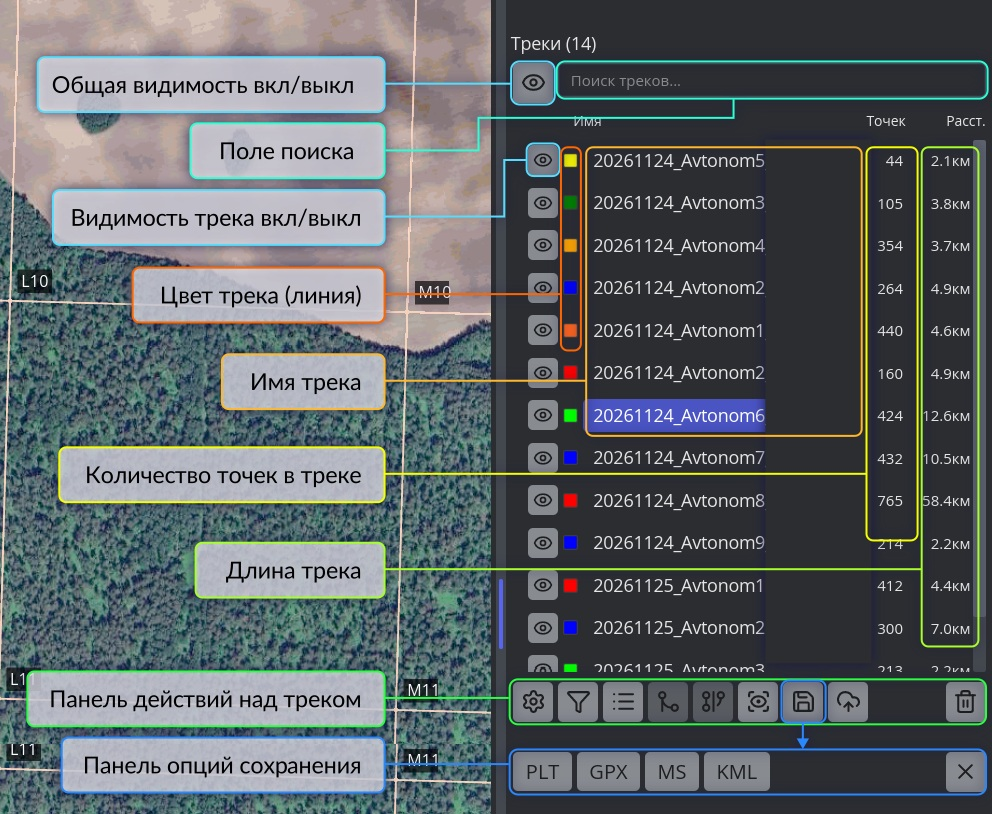
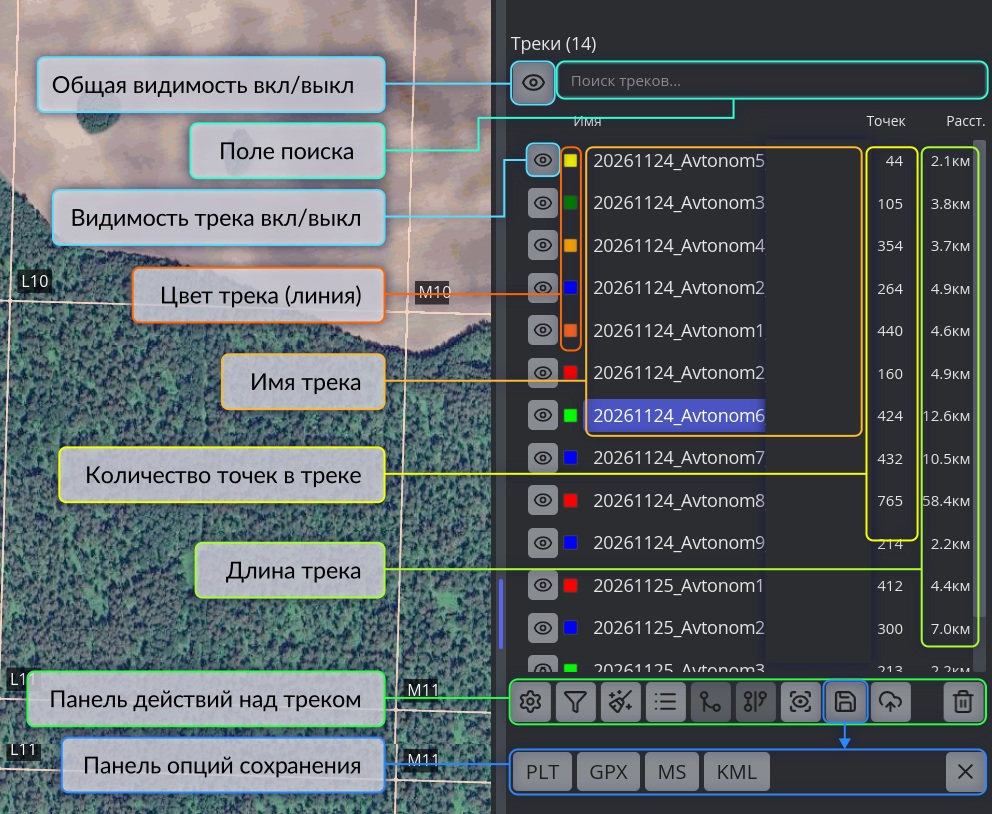
Cleanup button in track panel

Changed region(s): [[0.5, 0.8292, 1.0, 0.9214]]

diff --git a/foxy/src/ui/panel.rs b/foxy/src/ui/panel.rs
@@ -251,6 +251,14 @@ impl App {
             ),
             with_tooltip(
                 if one_track {
+                    self.icon_button(lucide_iced::bytes::BROOM_SPARKLES, Message::InspectTrack(selected_id.unwrap()))
+                } else {
+                    self.icon_button_disabled(lucide_iced::bytes::BROOM_SPARKLES)
+                },
+                t!("msg_0431")
+            ),
+            with_tooltip(
+                if one_track {
                     self.icon_button(lucide_iced::bytes::LIST, Message::OpenTrackList(selected_id.unwrap()))
                 } else {
                     self.icon_button_disabled(lucide_iced::bytes::LIST)
